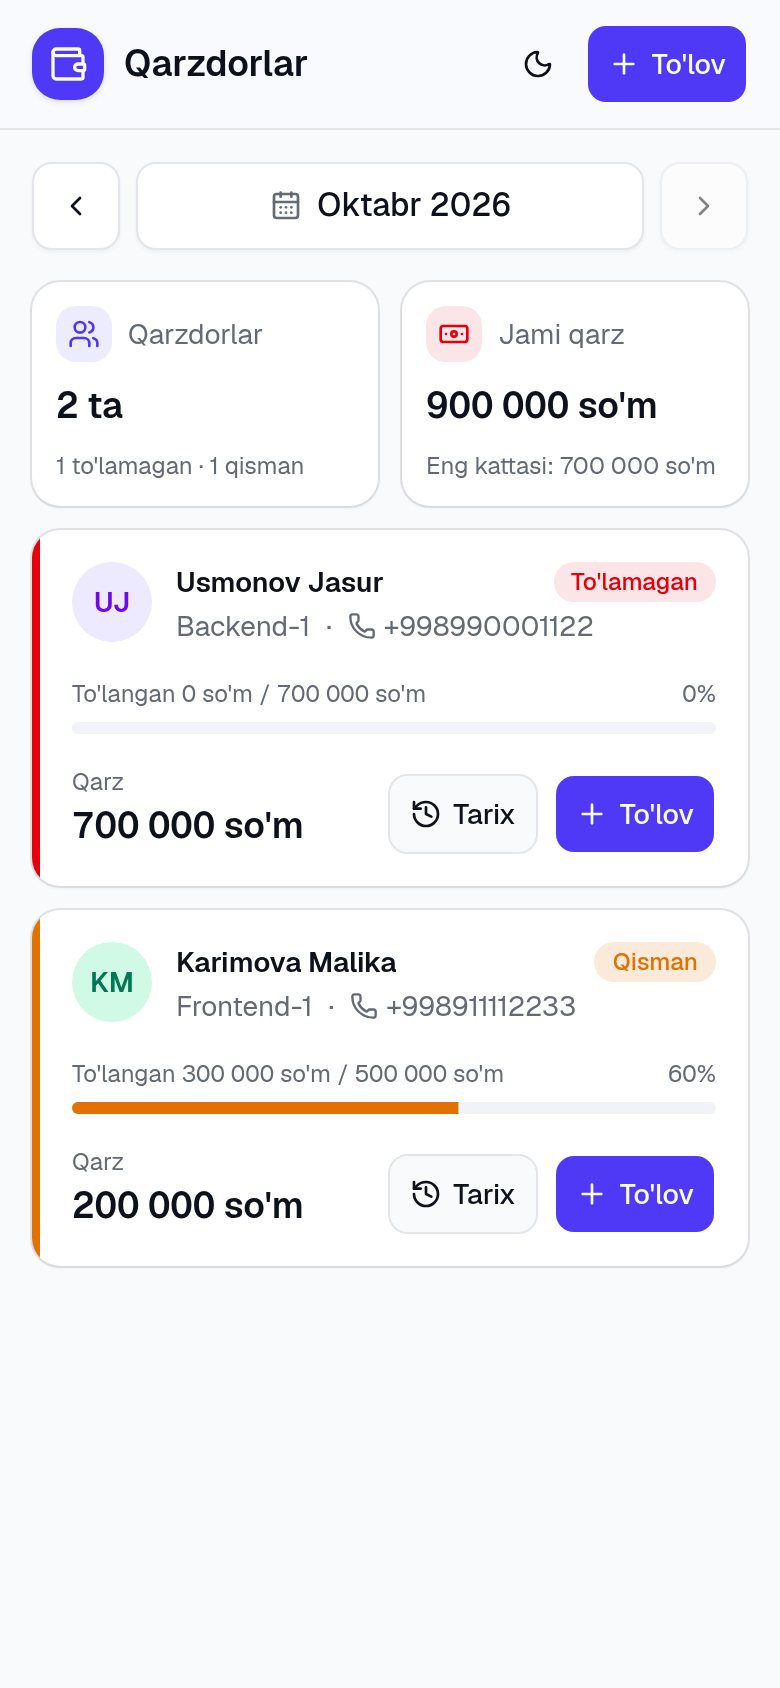
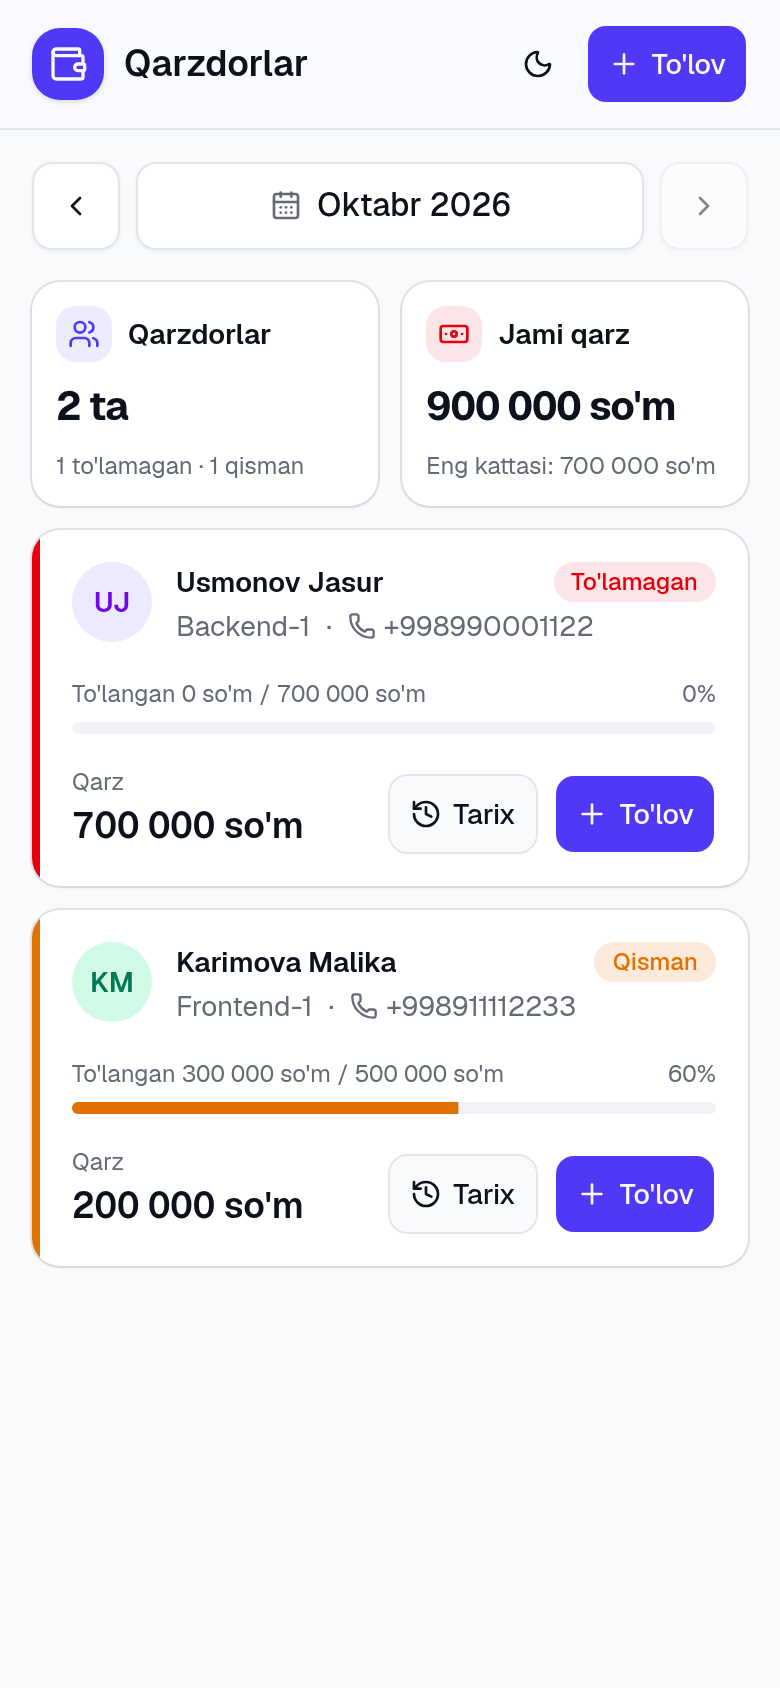
fix(frontend): explain why students failed to load and allow retry
- Payment form shows the reason (e.g. backend unreachable) and a retry link
- Bolder labels and values in the debt summary tiles

Changed region(s): [[0.5538, 0.1848, 0.8615, 0.2464], [0.1538, 0.1848, 0.3385, 0.2156], [0.0615, 0.2156, 0.1538, 0.2464]]

diff --git a/frontend/src/features/payments/__tests__/payment-form.test.tsx b/frontend/src/features/payments/__tests__/payment-form.test.tsx
@@ -102,4 +102,31 @@ describe('PaymentForm', () => {
     expect(await screen.findByText(message)).toBeInTheDocument();
     expect(onSuccess).not.toHaveBeenCalled();
   });
+
+  it("o'quvchilar yuklanmasa sababini aytadi va qayta urinish beradi", async () => {
+    let calls = 0;
+    mockApi({
+      'GET /students': () => {
+        calls += 1;
+        if (calls === 1) throw new TypeError('Failed to fetch');
+        return Response.json(students);
+      },
+    });
+    renderWithQuery(
+      <PaymentForm
+        defaults={{ studentId: 1, paidAt: today }}
+        onSuccess={vi.fn()}
+      />,
+    );
+
+    expect(
+      await screen.findByText(/Server bilan aloqa yo'q/),
+    ).toBeInTheDocument();
+    await userEvent.click(
+      screen.getByRole('button', { name: 'Qayta urinish' }),
+    );
+    expect(
+      await screen.findByText('Ali Valiyev · Frontend-1'),
+    ).toBeInTheDocument();
+  });
 });

diff --git a/frontend/src/features/payments/payment-form.tsx b/frontend/src/features/payments/payment-form.tsx
@@ -80,7 +80,17 @@ export function PaymentForm({ defaults, onSuccess }: PaymentFormProps) {
                 disabled={students.isPending}
               />
               {students.isError && (
-                <FieldError>O'quvchilar ro'yxati yuklanmadi</FieldError>
+                <FieldError className="flex flex-wrap items-center gap-x-2">
+                  O'quvchilar ro'yxati yuklanmadi: {students.error.message}.
+                  <Button
+                    type="button"
+                    variant="link"
+                    className="h-auto p-0"
+                    onClick={() => students.refetch()}
+                  >
+                    Qayta urinish
+                  </Button>
+                </FieldError>
               )}
               <FieldError errors={[fieldState.error]} />
             </Field>

diff --git a/frontend/src/features/debtors/debt-summary.tsx b/frontend/src/features/debtors/debt-summary.tsx
@@ -57,9 +57,11 @@ function SummaryTile({
         >
           <Icon className="size-4" />
         </span>
-        <p className="text-sm text-muted-foreground">{label}</p>
+        <p className="text-sm font-semibold text-foreground">{label}</p>
       </div>
-      <p className="text-lg font-semibold tabular-nums sm:text-2xl">{value}</p>
+      <p className="text-xl font-bold tracking-tight tabular-nums sm:text-2xl">
+        {value}
+      </p>
       <p className="text-xs text-muted-foreground">{hint}</p>
     </div>
   );
